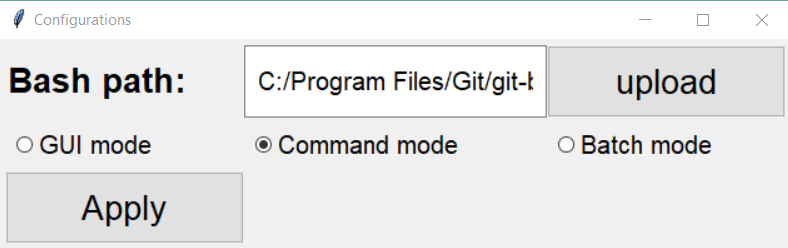
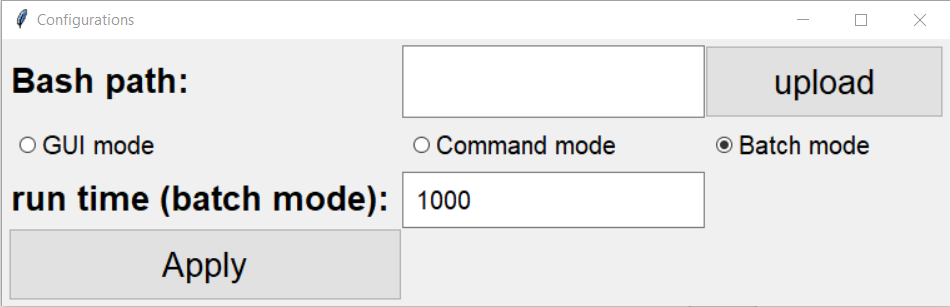
allow user to change run time

diff --git a/main.py b/main.py
@@ -608,10 +608,12 @@ class Root(Tk):
                 dict = json.load(json_file)
             bash_path = dict["bash_path"]
             mode = dict["mode"] # 1: gui, 2: command, 3: batch
+            run_time = dict["run_time"]
         except:        
             dict = {}
             bash_path = ""
-            mode = 1
+            mode = 3
+            run_time = 1000
         settings_window = Toplevel(self, bd=5)
         settings_window.title("Configurations")
         # labels and entries
@@ -630,12 +632,16 @@ class Root(Tk):
             settings_window, text="Command mode", variable=select_mode, value=2)
         batch_radio = ttk.Radiobutton(
             settings_window, text="Batch mode", variable=select_mode, value=3)
+        # run time field
+        run_time_label = ttk.Label(settings_window, text="run time (batch mode): ", font=("Helvetica", "20", "bold"))
+        run_time_entry = ttk.Entry(settings_window, font=("Helvetica ", "15"))
+        run_time_entry.insert(END, run_time)
         # label notes
         notes = "Notes:\n Please add Questa executables to system path."
         notes_label = ttk.Label(settings_window, text=notes, font=("Helvetica", "13", "bold"))
         # save
         save_settings_button = ttk.Button(settings_window, text="Apply", command=lambda: 
-            self.save_settings(dict, bash_path_entry, select_mode))
+            self.save_settings(dict, bash_path_entry, select_mode, run_time_entry))
         # grid
         #notes_label.grid(row=4, column=0)
         bash_path_label.grid(row=1, column=0, sticky="nswe")
@@ -644,15 +650,18 @@ class Root(Tk):
         gui_radio.grid(row=2, column=0, sticky="nswe")
         command_radio.grid(row=2, column=1, sticky="nswe")
         batch_radio.grid(row=2, column=2, sticky="nswe")
-        save_settings_button.grid(row=3, column=0, sticky="nswe")
+        run_time_label.grid(row=3, column=0, sticky="nswe")
+        run_time_entry.grid(row=3, column=1, sticky="nswe")
+        save_settings_button.grid(row=4, column=0, sticky="nswe")
 
         
         
-    def save_settings(self, dict, bash_path_entry, select_mode):
+    def save_settings(self, dict, bash_path_entry, select_mode, run_time_entry):
         """ """
         # filling dict
         dict["bash_path"] = bash_path_entry.get()
         dict["mode"] = select_mode.get()
+        dict["run_time"] = run_time_entry.get()
         # save dict in json file
         with open('settings.json', 'w') as json_file:
             json.dump(dict, json_file)
@@ -704,6 +713,7 @@ class Root(Tk):
                 dict = json.load(json_file)
             bash_path = dict["bash_path"]
             mode = dict["mode"] # 1: gui, 2: command, 3: batch
+            run_time = dict["run_time"]
         except:
             messagebox.showinfo("Error", "Please open settings to add your Linux bash path!" )
         
@@ -718,7 +728,7 @@ class Root(Tk):
             messagebox.showinfo("Error", "Please upload file to run!" )
         
         # assuming vsim, vlog are added to the path
-        questa_commands = "log -r *" + " \n " + "run 1000" 
+        questa_commands = "log -r *" + " \n " + "run " + run_time
         vlog_command = "vlog -work work -L mtiAvm -L mtiRnm -L mtiOvm -L mtiUvm -L mtiUPF -L infact -O0 "
         
         # commands for -gui mode
